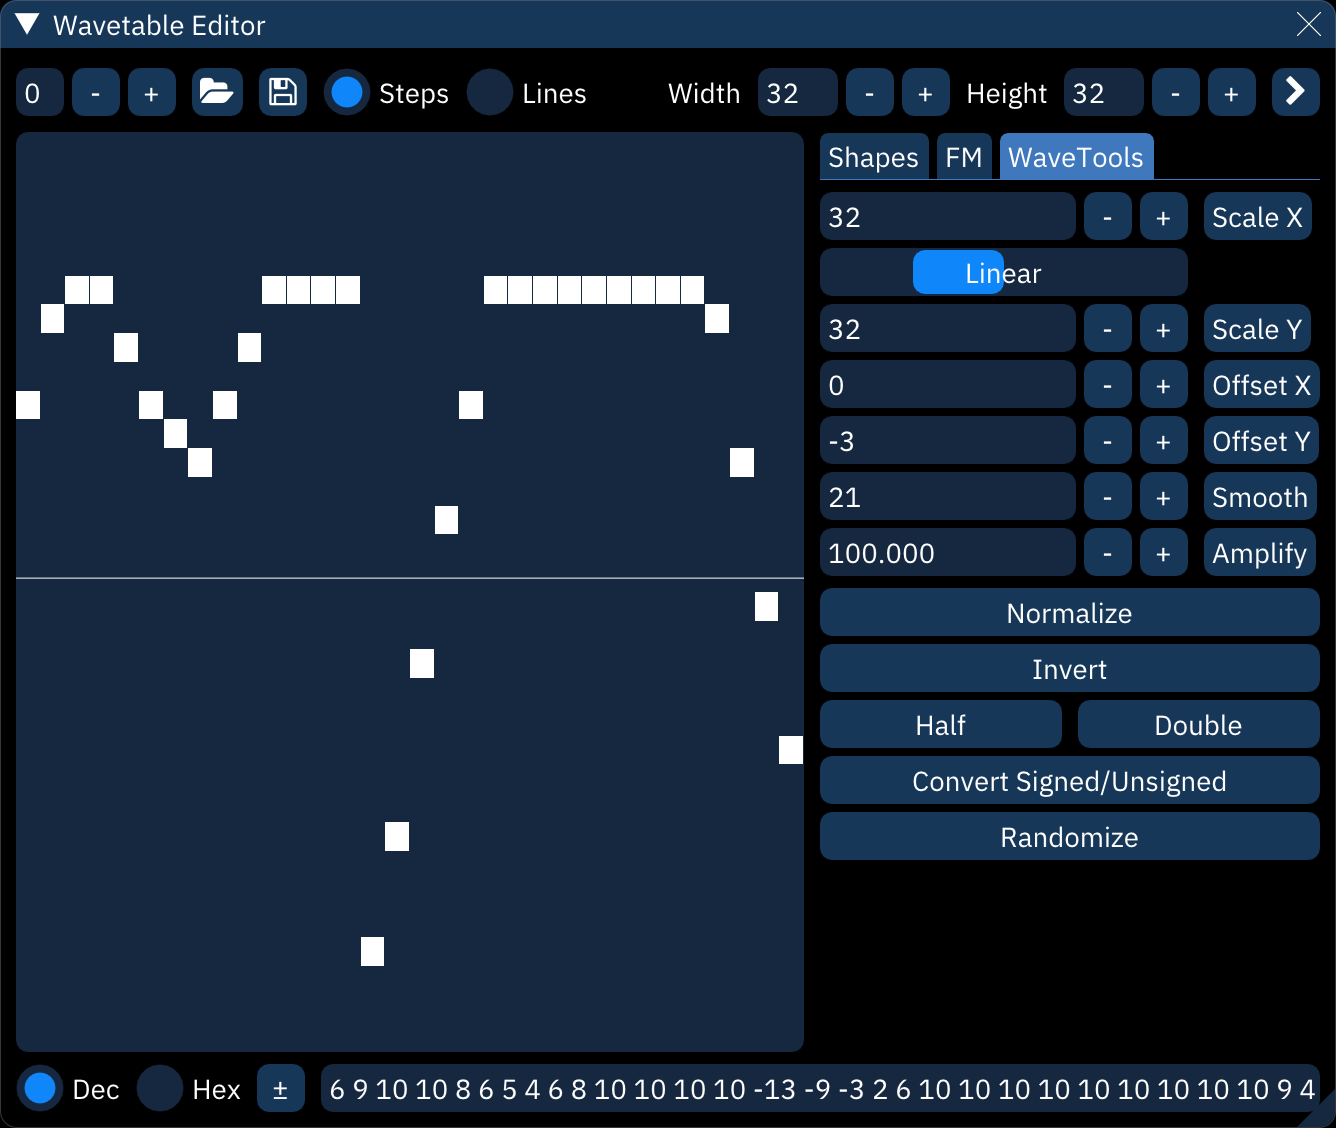
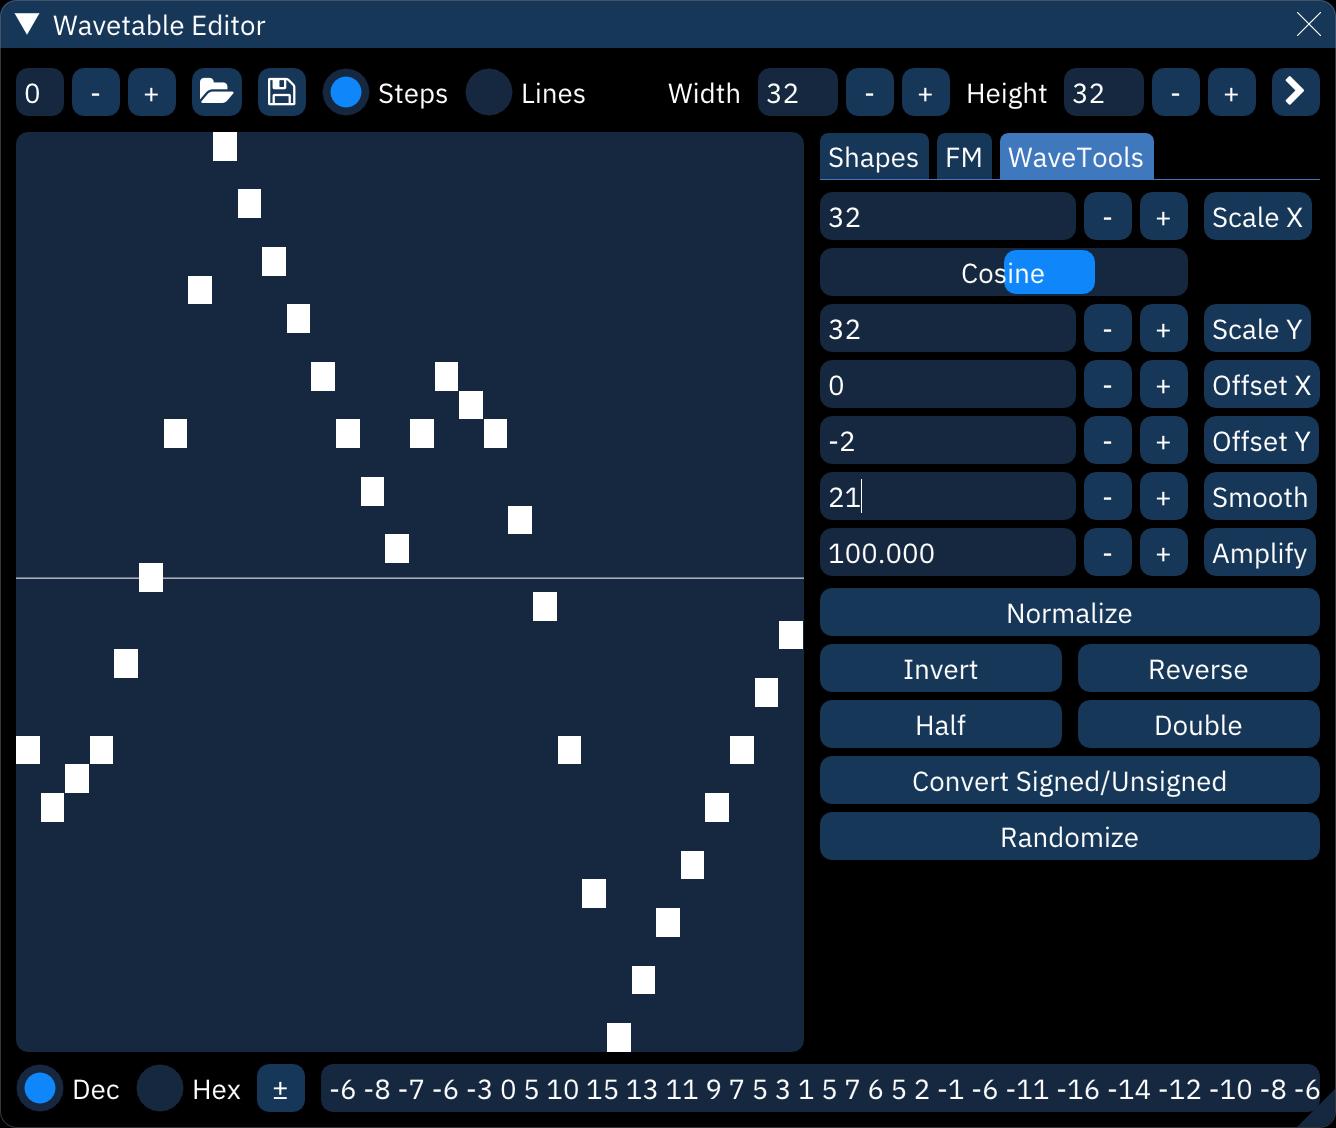
Docs update for 0.6pre9.

diff --git a/doc/4-instrument/fmopll.md b/doc/4-instrument/fmopll.md
@@ -15,14 +15,18 @@ The OPLL synthesizer is two-operator, meaning it takes two oscillators to produc
 These apply to the instrument as a whole:
 - **Feedback (FB)**: Determines how many times operator 1 returns its output to itself. (0-7 range)
 - **Sustain (SUS)**: enables the sustain flag (sets the release rate to 5) 
+- algorithm: shows the connection of operators (though they are always connected the same way).
+  - Right-click to switch to a preview display of the waveform generated on a new note:
+    - Left-click restarts the preview.
+    - Middle-click pauses and unpauses the preview.
+    - Right-click returns to algorithm view.
 - **DC (half-sine carrier)**: Sets the waveform produced by carrier operator to half-sine
 - **DM (half-sine modulator)**: Sets the waveform produced by modulator operator to half-sine
-
-To the right, there is a drop down menu for OPLL preset instrument selection.
+- preset dropdown: select OPLL preset instrument.
 
 These apply to each operator:
 - The crossed-arrows button can be dragged to rearrange operators.
-- The **OP1**, **OP2** buttons enable or disable those operators.
+- The **OP1** and **OP2** buttons enable or disable those operators.
 - **Amplitude Modulation (AM)**: Makes the operator affected by LFO tremolo.
 - **Envelope generator sustain flag (EGS)**: When enabled, value of Sustain Level is in effect.
 - **Attack Rate (AR)**: determines the rising time for the sound. The bigger the value, the faster the attack. (0-15 range)

diff --git a/doc/5-wave/README.md b/doc/5-wave/README.md
@@ -87,6 +87,7 @@ these are useful editing tools to fine-tune the waveform:
 - **Amplify**. changes the volume of the waveform. it will clip at the top and bottom.
 - **Normalize**: stretches waveform to maximum within the wavetable height.
 - **Invert**: flips waveform vertically.
+- **Reverse**: flips waveform horizontally.
 - **Half**: halves the waveform's frequency by stretching its first half to fill the waveform length.
 - **Double**: doubles the waveform's frequency by squashing it to half length then repeating it.
 - **Convert Signed/Unsigned**. worth trying if an imported wave sounds corrupted.
@@ -110,6 +111,7 @@ input waveforms should match the size of the wavetable or unexpected results may
 - synthesizer type: selects the synthesis algorithm.
 - waveform displays.
 - **Wave 1**: selects input waveform.
+  - this will turn yellow to indicate that a Waveform macro is set; remove the macro to work with the synthesizer.
 - **Wave 2**: selects second input waveform. only appears when a dual-waveform synthesizer is selected.
 - **Pause preview**: toggles live waveform preview.
 - **Restart preview**: restarts preview from initial state.

diff --git a/doc/4-instrument/snes.md b/doc/4-instrument/snes.md
@@ -19,7 +19,15 @@ these tabs are unique to the editor for SNES instruments.
   - **Effective (exponential decrease)**: after release, volume decays exponentially. see [gain chart](../7-systems/snes.md).
   - **Delayed (write R on release)**: after release, waits until A and D have completed before starting exponential decrease.
 
-if envelope is off, select gain mode as described below.
+if envelope is off:
+- **Gain Mode**: select gain mode.
+  - **Direct**: direct gain from 0 to 127
+  - **Decrease (linear)**: linear gain from -0 to -31
+  - **Decrease (logarithmic)**: exponential gain from -0 to -31
+  - **Increase (linear)**: linear gain from +0 to +31
+  - **Increase (bent line)**: exponential gain from +0 to +31
+  - _note:_ using decrease modes will not produce any sound unless a Gain macro is set. The first tick must be the initial gain, and the second tick must be the decrease gain value. gain values are as described in the Macros section below.
+- **Gain**: value of gain.
 
 
 

diff --git a/doc/4-instrument/README.md b/doc/4-instrument/README.md
@@ -113,7 +113,7 @@ This tab appears for PC Engine, FDS, Namco WSG, and other wavetable-based instru
 
 ![wavetable tab](wavetable.png)
 
-When **Enable synthesizer** is off, the only option is to select a wavetable entry with the text entry box beneath the **Wave 1** preview.
+When **Enable synthesizer** is off, the wavetable used for the instrument may be selected by creating a Waveform macro with a single value.
 
 To use the wavetable synthesizer, refer to the bottom part of [the wavetable documentation](../5-wave/README.md).
 

diff --git a/doc/2-interface/asset-list.md b/doc/2-interface/asset-list.md
@@ -43,6 +43,6 @@ Everything from the instrument list applies here also, with one major difference
 
 ![samples window](samples.png)
 
-Everything from the wavetables list applies here also, with the addition of two buttons before the Delete button:
+Everything from the wavetables list applies here also, with the addition of one button before the Delete button:
 - **Preview**: Plays the selected sample at its default note.
-- **Stop preview**: Stops the sample playback.
+  - Right-clicking stops the sample playback.
